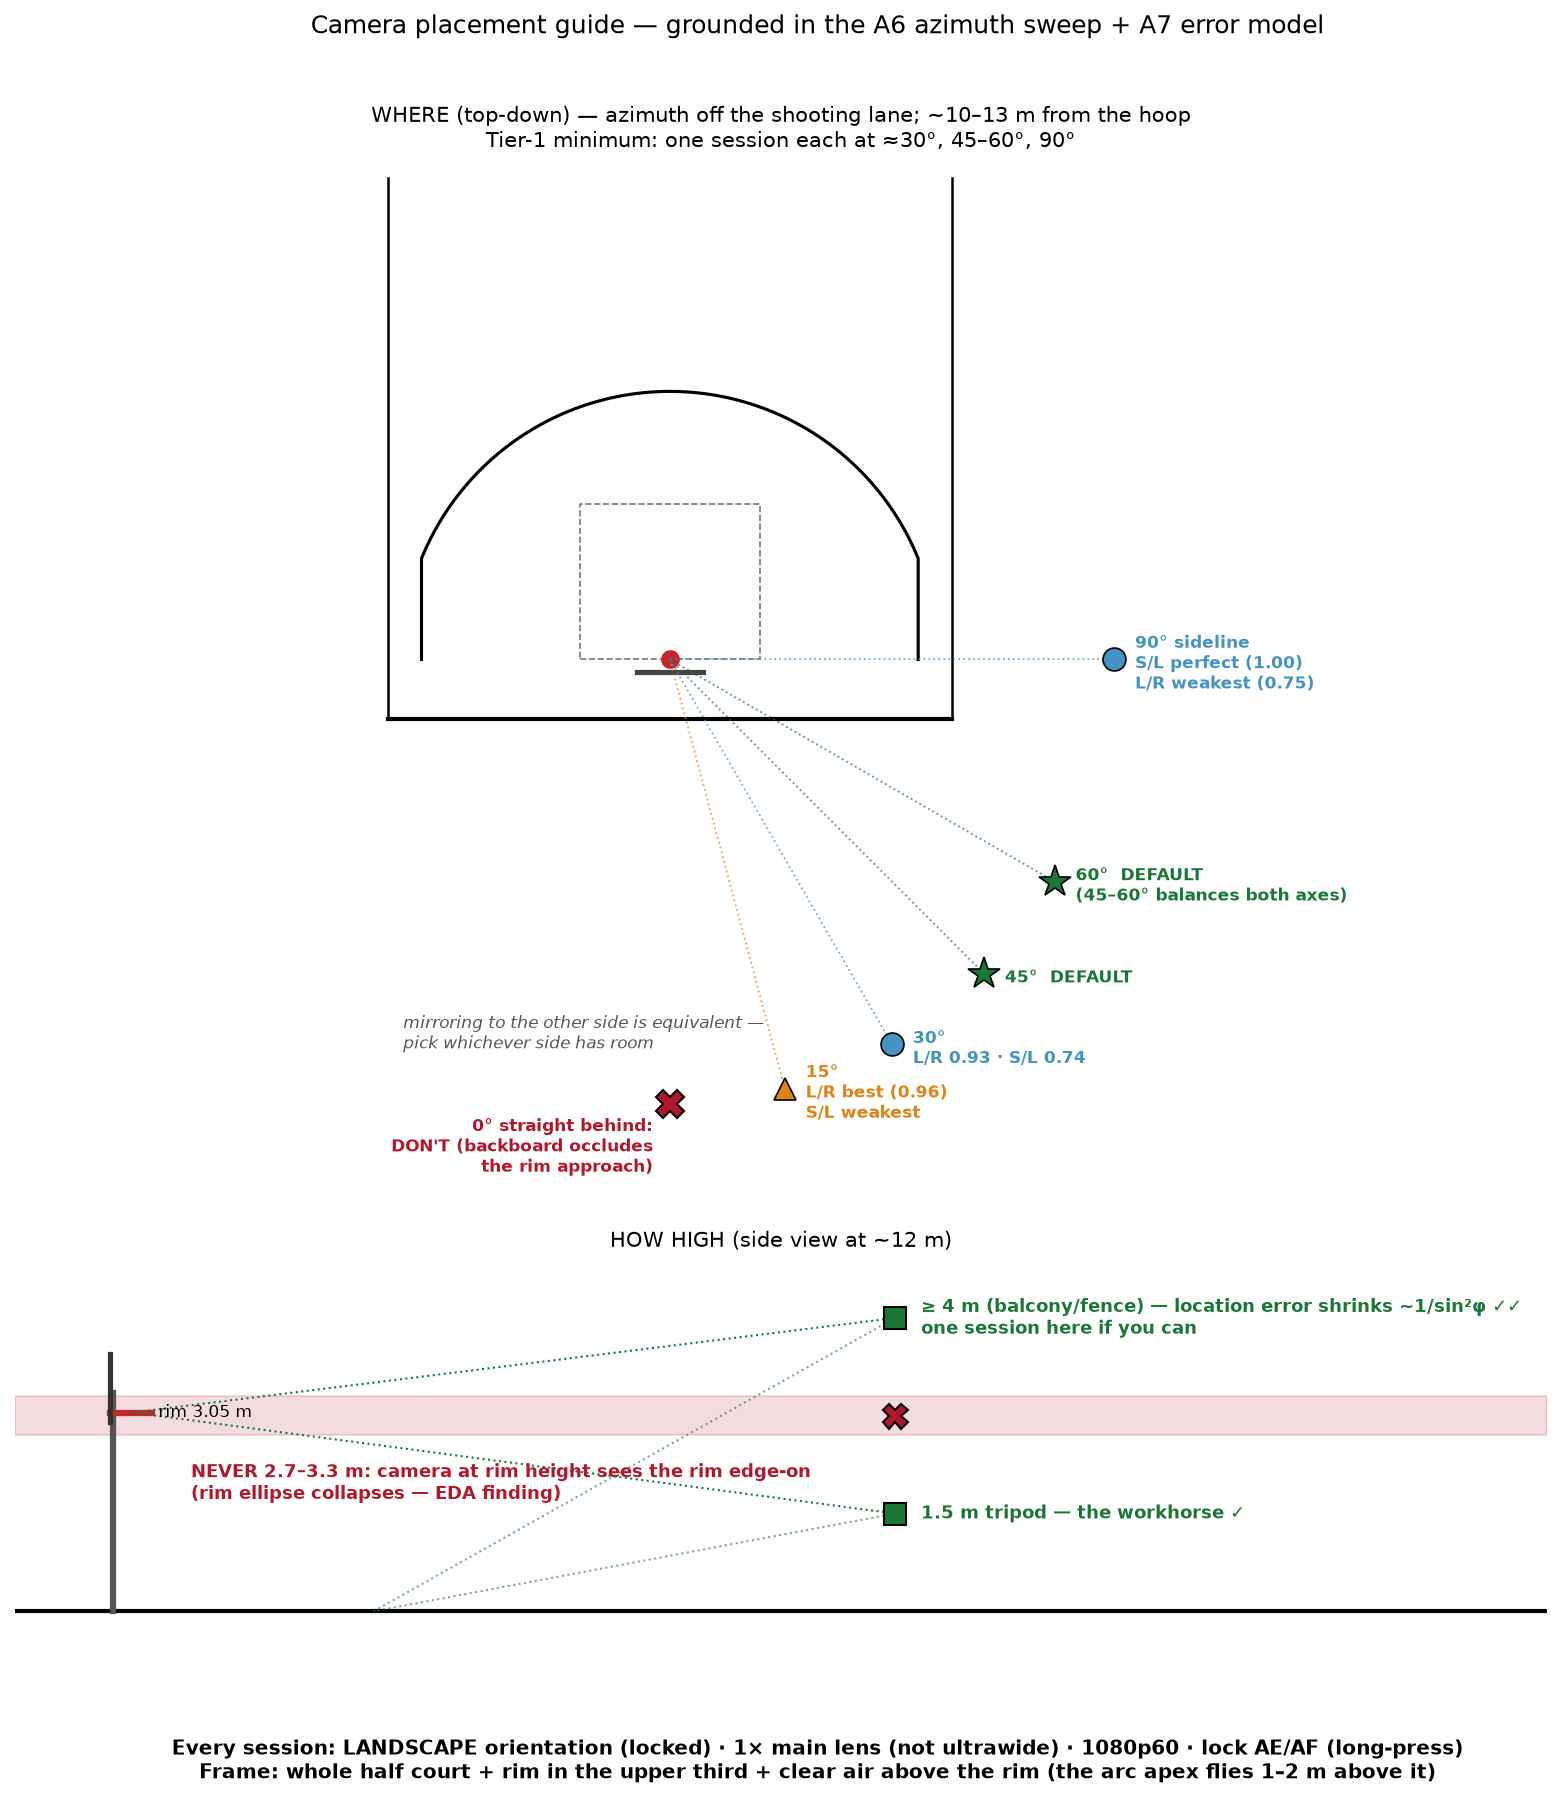
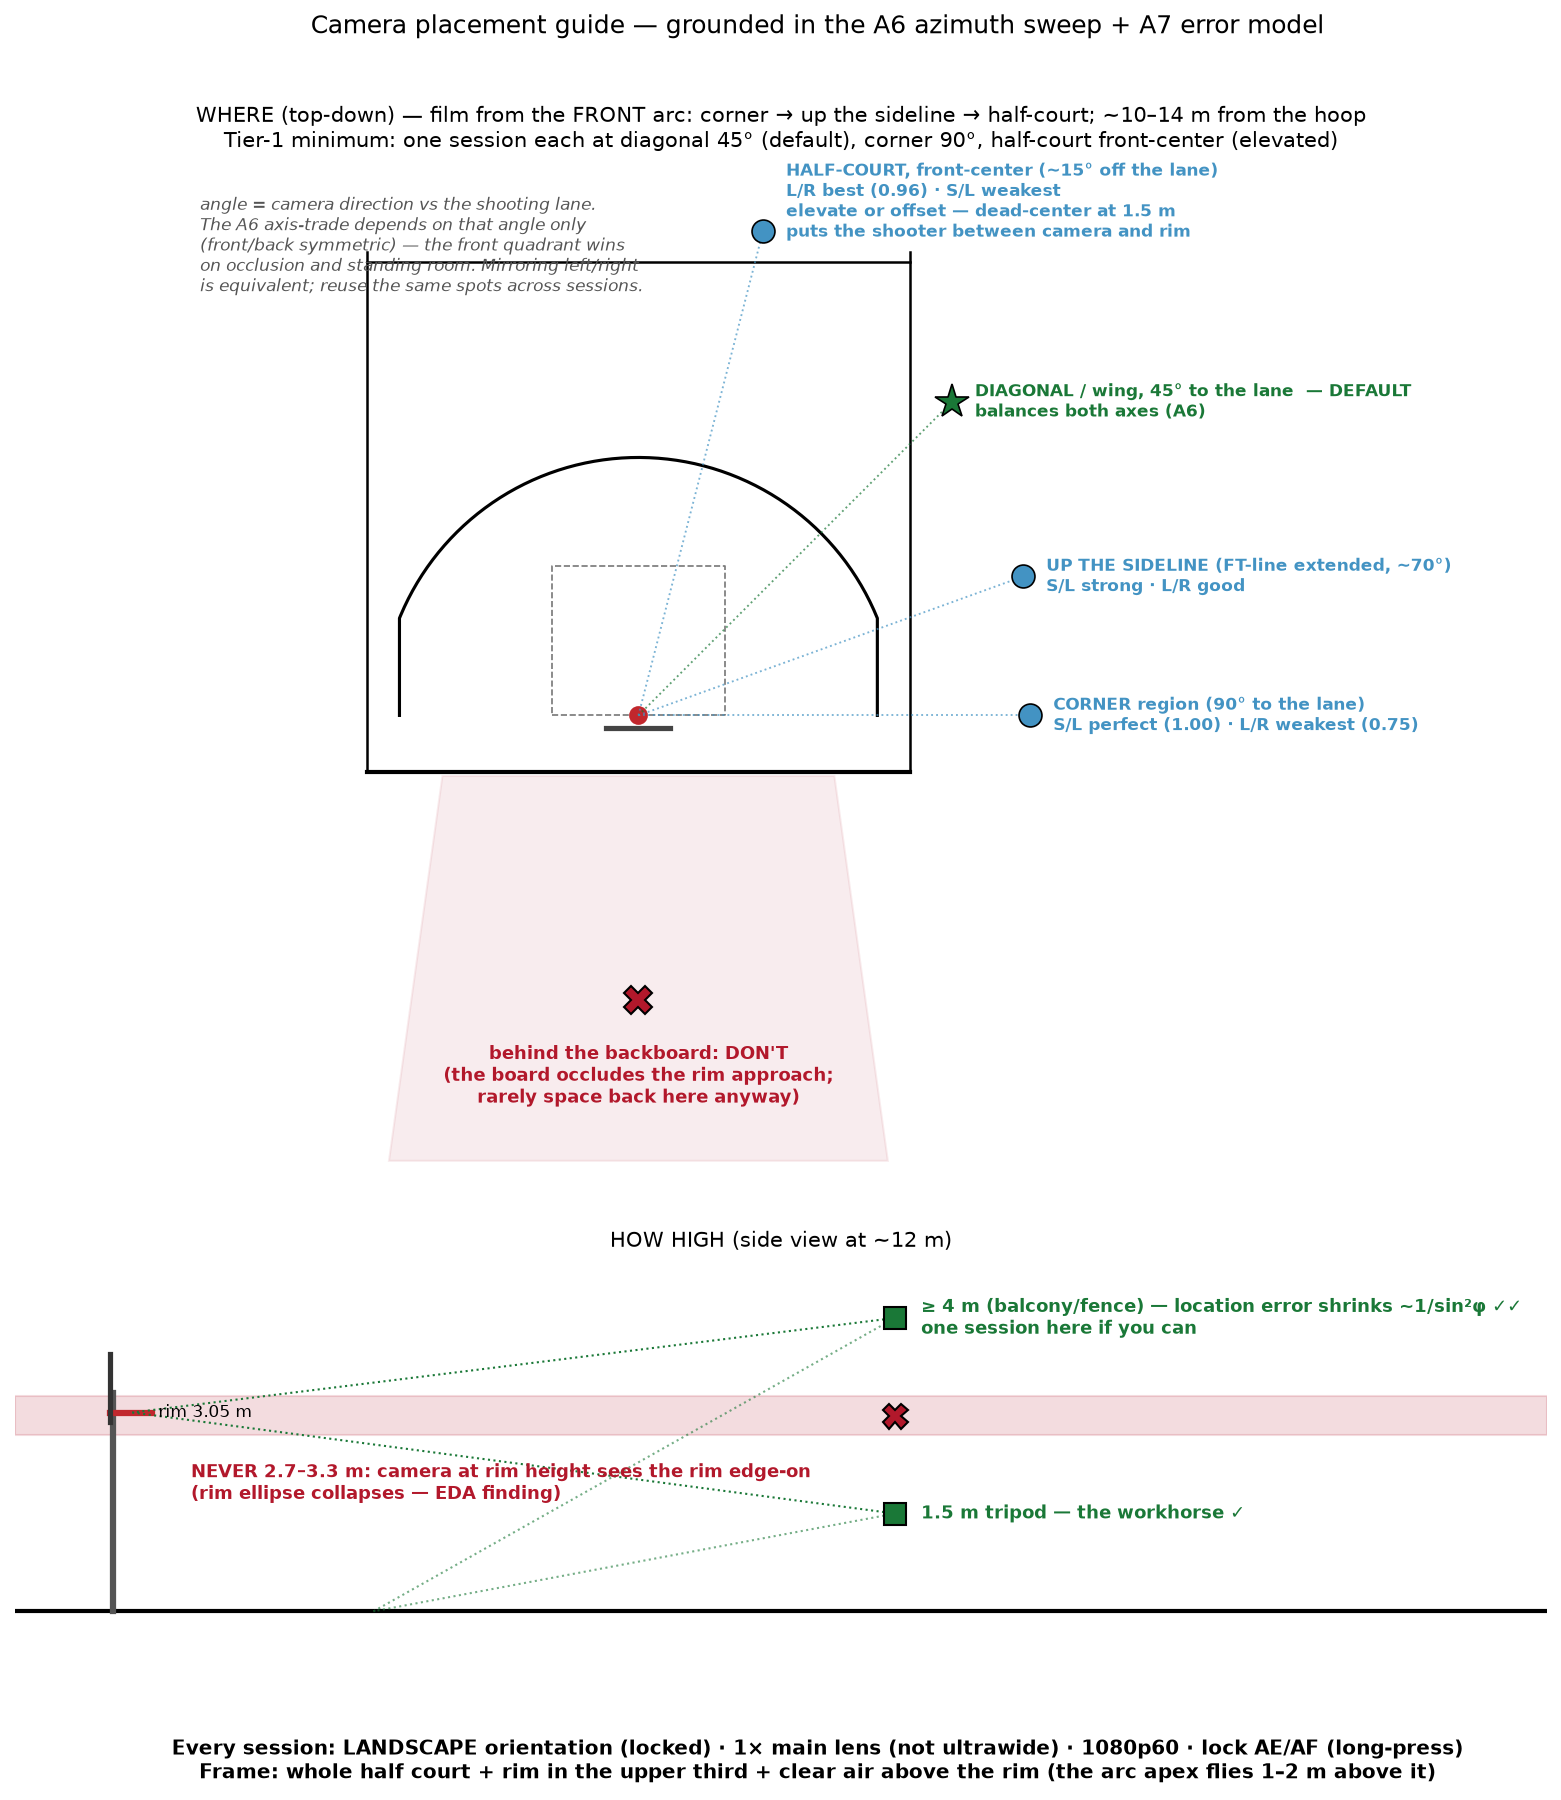
Correct camera guide to the front arc (corner to half-court); exclude behind-backboard placements

diff --git a/scripts/plot_camera_guide.py b/scripts/plot_camera_guide.py
@@ -34,40 +34,49 @@ def _court(ax):
     return c
 
 
-def _cam_xy(az_deg: float) -> tuple[float, float]:
-    """Camera position at R_CAM from the hoop; azimuth measured off the shooting lane on
-    the behind-the-hoop side (0 = straight behind the backboard, 90 = sideline)."""
-    a = np.deg2rad(az_deg)
-    return R_CAM * np.sin(a), -R_CAM * np.cos(a)
-
-
 def top_down(ax):
-    _court(ax)
-    spots = [
-        (15, "#e08214", "^", "15°\nL/R best (0.96)\nS/L weakest"),
-        (30, "#4393c3", "o", "30°\nL/R 0.93 · S/L 0.74"),
-        (45, "#1a7837", "*", "45°  DEFAULT"),
-        (60, "#1a7837", "*", "60°  DEFAULT\n(45–60° balances both axes)"),
-        (90, "#4393c3", "o", "90° sideline\nS/L perfect (1.00)\nL/R weakest (0.75)"),
+    """Placements live in the FRONT quadrant (corner -> sideline -> half-court): the A6
+    axis-trade depends only on the camera's angle to the shooting lane (front/back
+    symmetric), but the front side keeps the rim approach clear of the backboard and is
+    where space to stand actually exists."""
+    c = _court(ax)
+    ax.plot([-c.sideline_x_m, c.sideline_x_m], [12.73, 12.73], "k-", lw=1.2)  # half-court
+    spots = [  # (x, y, color, marker, label, label_dy_pts)
+        (3.5, 13.6, "#4393c3", "o",
+         "HALF-COURT, front-center (~15° off the lane)\nL/R best (0.96) · S/L weakest\n"
+         "elevate or offset — dead-center at 1.5 m\nputs the shooter between camera and rim", 14),
+        (8.8, 8.8, "#1a7837", "*",
+         "DIAGONAL / wing, 45° to the lane  — DEFAULT\nbalances both axes (A6)", 0),
+        (10.8, 3.9, "#4393c3", "o",
+         "UP THE SIDELINE (FT-line extended, ~70°)\nS/L strong · L/R good", 0),
+        (11.0, 0.0, "#4393c3", "o",
+         "CORNER region (90° to the lane)\nS/L perfect (1.00) · L/R weakest (0.75)", 0),
     ]
-    for az, color, marker, label in spots:
-        x, y = _cam_xy(az)
-        ax.plot(x, y, marker, color=color, ms=16 if marker == "*" else 11,
+    for x, y, color, marker, label, dy in spots:
+        ax.plot(x, y, marker, color=color, ms=17 if marker == "*" else 11,
                 mec="black", mew=0.8, zorder=5)
         ax.plot([0, x], [0, y], ":", color=color, lw=0.9, alpha=0.7)
-        ax.annotate(label, (x, y), textcoords="offset points", xytext=(10, -2),
+        ax.annotate(label, (x, y), textcoords="offset points", xytext=(11, dy),
                     fontsize=8, weight="bold", color=color, va="center")
-    xb, yb_ = _cam_xy(0)
-    ax.plot(xb, yb_, "X", color="#b2182b", ms=13, mec="black", zorder=5)
-    ax.annotate("0° straight behind:\nDON'T (backboard occludes\nthe rim approach)",
-                (xb, yb_), textcoords="offset points", xytext=(-8, -6),
-                fontsize=8, weight="bold", color="#b2182b", ha="right", va="top")
-    ax.annotate("mirroring to the other side is equivalent —\npick whichever side has room",
-                (-7.2, -10.5), fontsize=8, style="italic", color="#555555")
-    ax.set_title("WHERE (top-down) — azimuth off the shooting lane; ~10–13 m from the hoop\n"
-                 "Tier-1 minimum: one session each at ≈30°, 45–60°, 90°", fontsize=10)
-    ax.set_xlim(-12.5, 18.5)
-    ax.set_ylim(-14.5, 13.5)
+    # The excluded quadrant: behind the backboard.
+    ax.fill([-5.5, 5.5, 7.0, -7.0], [-1.7, -1.7, -12.5, -12.5],
+            color="#b2182b", alpha=0.08, zorder=0)
+    ax.plot(0.0, -8.0, "X", color="#b2182b", ms=13, mec="black", zorder=5)
+    ax.annotate("behind the backboard: DON'T\n(the board occludes the rim approach;\n"
+                "rarely space back here anyway)", (0.0, -9.2),
+                fontsize=8.5, weight="bold", color="#b2182b", ha="center", va="top")
+    ax.annotate("angle = camera direction vs the shooting lane.\n"
+                "The A6 axis-trade depends on that angle only\n"
+                "(front/back symmetric) — the front quadrant wins\n"
+                "on occlusion and standing room. Mirroring left/right\n"
+                "is equivalent; reuse the same spots across sessions.",
+                (-12.3, 14.6), fontsize=8, style="italic", color="#555555", va="top")
+    ax.set_title("WHERE (top-down) — film from the FRONT arc: corner → up the sideline → "
+                 "half-court; ~10–14 m from the hoop\nTier-1 minimum: one session each at "
+                 "diagonal 45° (default), corner 90°, half-court front-center (elevated)",
+                 fontsize=10)
+    ax.set_xlim(-12.5, 20.5)
+    ax.set_ylim(-13.5, 15.6)
     ax.set_aspect("equal")
     ax.axis("off")
 

diff --git a/docs/DATA_PROTOCOL.md b/docs/DATA_PROTOCOL.md
@@ -21,8 +21,11 @@ time you naturally train — two natural variants is plenty; do not schedule aro
 loud right after each shot** — "make", "miss short-left", "rattle in" — the audio track then
 carries time-aligned labels you merely confirm at review; one swish-hunting block, one
 bang-the-rim block) + **5 min non-shooting** (dribble/passing + a few lobs toward
-the rim). Across the 5 sessions vary what is free: ≥ 3 tripod azimuths (~30°, ~45–60°,
-sideline; one elevated if possible — never ≈ rim height), one ball per session, rotating.
+the rim). Across the 5 sessions vary what is free — ≥ 3 placements from the **front arc**
+(corner → up the sideline → half-court; never behind the backboard): diagonal/wing ≈ 45° to
+the lane (**default**), the corner region (90°), and half-court front-center (~15°, elevated
+or laterally offset so the shooter never sits between camera and rim); one placement elevated
+if possible — never ≈ rim height. One ball per session, rotating.
 Tier 1 alone funds detector fine-tuning, real FSM validation, make/miss + location numbers
 with held-out *sessions*, calibration, and first miss-direction results.
 
@@ -68,7 +71,7 @@ Visual placement guide: `reports/figures/camera_placement_guide.png`
 | Venue | ≥ 4: two indoor gyms (different floors), two outdoor (different backboards) |
 | Ball | ≥ 3: leather indoor, rubber outdoor, worn/discolored |
 | Lighting | daylight, dusk, indoor artificial |
-| Camera azimuth | ≈ 15°, 30°, 45°, 60°, 90° (sideline). **45° wing is the recommended default** (both miss axes observable — A6); the sweep exists to *measure* the recommendation |
+| Camera placement (**front arc only**: corner → up the sideline → half-court) | corner region (90° to the lane) · up-the-sideline (~70°) · diagonal/wing (45° — **recommended default**, balances both miss axes per A6) · half-court front-center (~15°, elevated/offset — dead-center-low puts the shooter between camera and rim). **Behind the backboard is excluded** (the board occludes the rim approach). The A6 axis-trade depends on the camera's angle to the shooting lane and is front/back symmetric — the front arc wins on occlusion and standing room; see `reports/figures/camera_placement_guide.png` |
 | Camera height | 1.5 m tripod **and** elevated (≥ ~4 m). Avoid ≈ rim height |
 
 Hold **≥ 1 entire venue** out of all training/tuning — it is the cross-venue test set and the